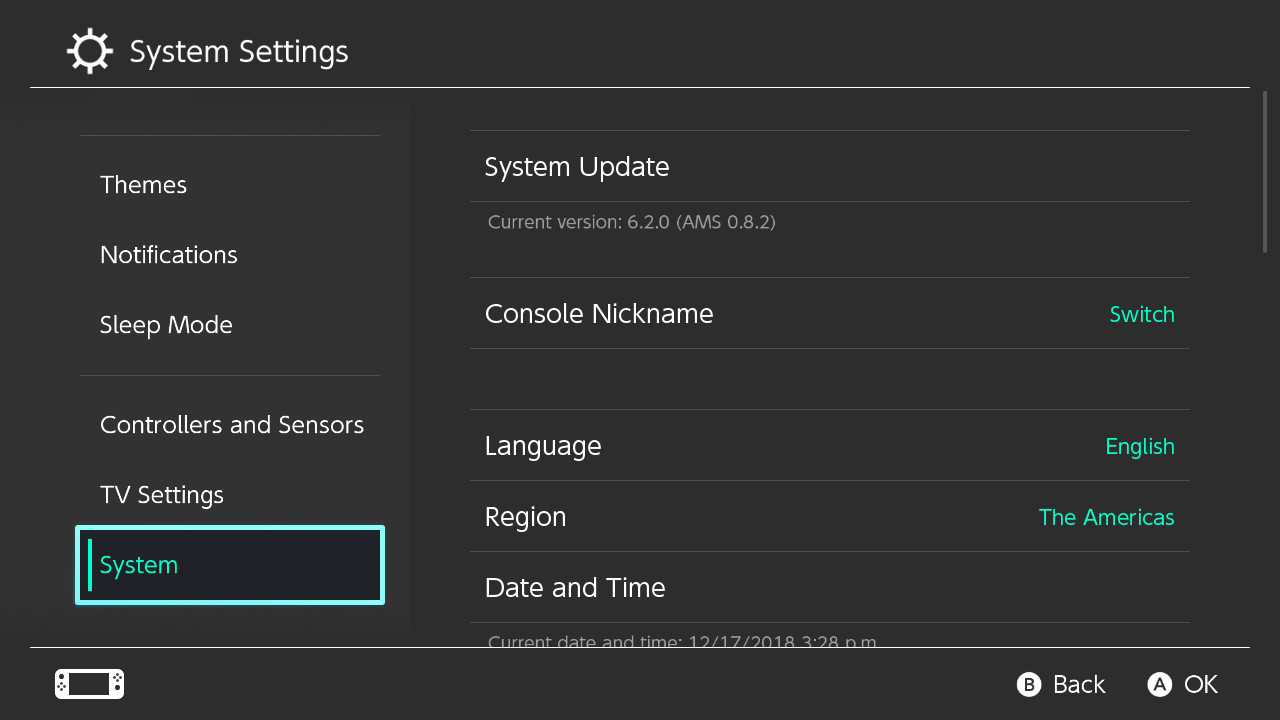
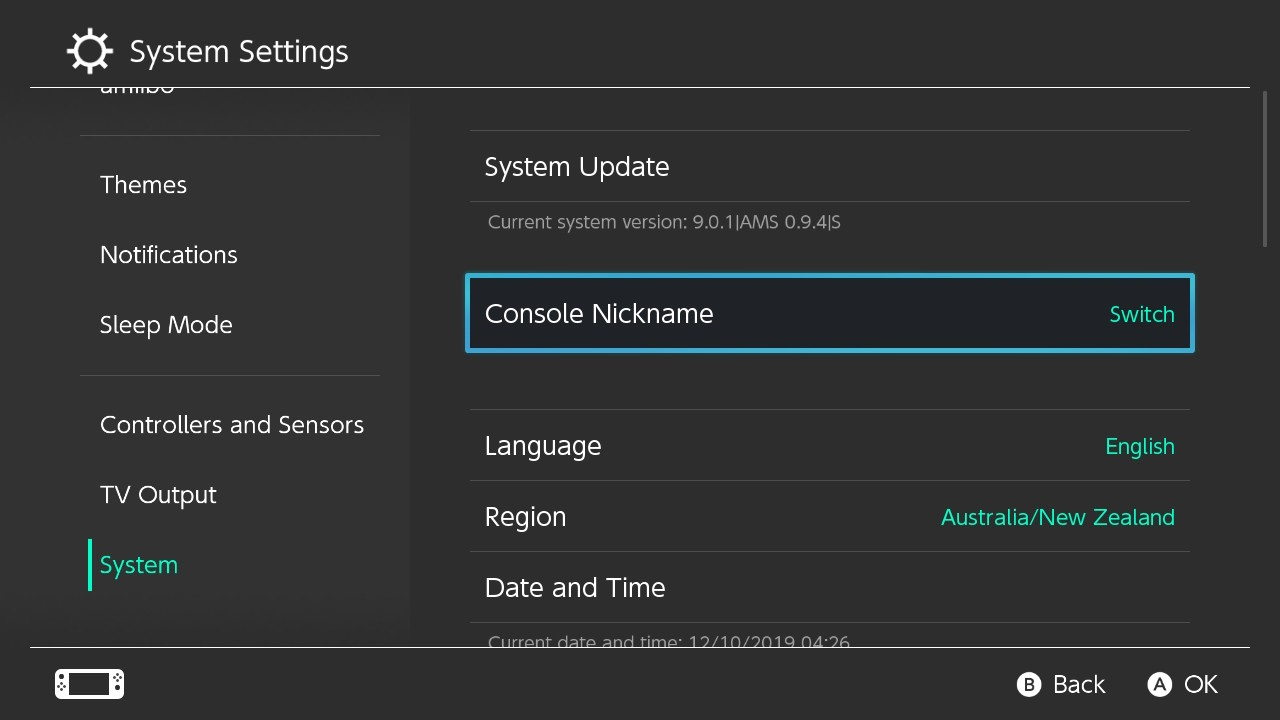
Update version string stuff -Updated pic to reflect current version string -S indicates sysMMC -E indicates emuMMC

diff --git a/docs/user_guide/emummc/launching_cfw.md b/docs/user_guide/emummc/launching_cfw.md
@@ -18,7 +18,7 @@ Unlike systems such as the DSi, Wii, or 3DS, Switch CFW is currently volatile- i
 
 Your Switch is now booting into Atmosphere.
 
-To verify Atmosphere launched properly, open the Settings applet, and navigate to System. You should see `AMS` next to the version number.
+To verify Atmosphere launched properly, open the Settings applet, and navigate to System. You should see `AMS` next to the version number, as well as an `E` at the end, indicating you are booted into emuMMC.
 
 &nbsp;
 

diff --git a/docs/user_guide/sysnand/launching_cfw.md b/docs/user_guide/sysnand/launching_cfw.md
@@ -15,7 +15,7 @@ Unlike systems such as the DSi, Wii, or 3DS, Switch CFW is currently volatile- i
 
 Your Switch is now booting into Atmosphere.
 
-To verify Atmosphere launched properly, open the Settings applet, and navigate to System. You should see `AMS` next to the version number.
+To verify Atmosphere launched properly, open the Settings applet, and navigate to System. You should see `AMS` next to the version number, as well as an `S` at the end, indicating you are booted into sysMMC.
 
 &nbsp;
 
